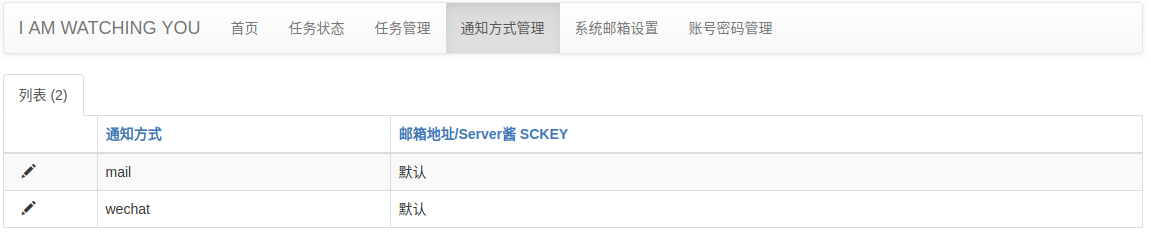
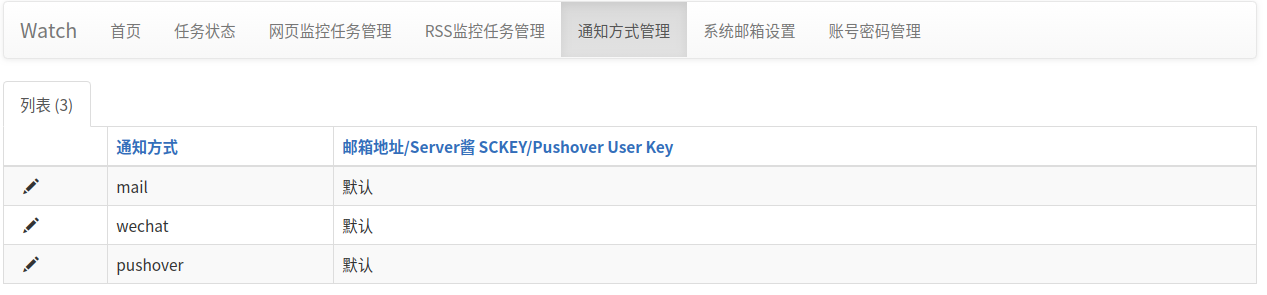
add doc && yapf format

diff --git a/app/main/notification/pushover_notification.py b/app/main/notification/pushover_notification.py
@@ -12,30 +12,27 @@ import requests
 from app.main.notification.notification import Notification
 from config import logger
 
+
 class PushoverNotification(Notification):
     def send(self, to, header, content):
         if to == '默认':
             logger.error('没有设置Prushover User Key，无法发送推送通知')
             raise Exception('没有设置Prushover User Key，无法发送推送通知')
-        data = {'text': header, 'desp': content}
         token = os.getenv('PUSHOVER_API_TOKEN')
         sendData = {
             'token': token,  # 监控猫 Api Token
             'user': to,
             'message': '【' + header + '】有更新！\n>>>新内容为：\n' + content,
-            }
+        }
         pushoverApi = 'https://api.pushover.net/1/messages.json'
 
         try:
-            response = requests.post(pushoverApi, sendData, timeout=5) #在session中喜欢微锦囊
-            # if not response.status_code // 100 == 2:
-            # print('请求错误')
-            # return "Error: Unexpected response {}".format(response)
+            response = requests.post(pushoverApi, sendData, timeout=5)
         except requests.exceptions.RequestException as e:
             logger.error('请求错误')
             raise Exception('Error: {}'.format(e))
 
         res = json.loads(response.text)
-        
+
         if res['status'] != 1:
             raise Exception(res['errors'])

diff --git a/app/main/selector/request_selector.py b/app/main/selector/request_selector.py
@@ -32,15 +32,6 @@ class RequestsSelector(FatherSelector):
         r.encoding = r.apparent_encoding
         html = r.text
         return html
-    
-    # 判断json #############################
-    def isJson(self, input_str):
-        try:
-            json.loads(input_str)
-            return True
-        except:
-            raise Exception('返回数据不是Json')
-    # 判断json #############################
 
     def get_by_xpath(self, url, xpath, headers=None):
         html = self.get_html(url, headers)
@@ -62,18 +53,15 @@ class RequestsSelector(FatherSelector):
 
     def get_by_json(self, url, xpath, headers=None):
         html = self.get_html(url, headers)
-        
-        if self.isJson(html):
-            resJson = json.loads(html) #把返回数据转成JSON
-        else :
-            raise Exception('Json转换错误')
-        
-        res = jsonpath.jsonpath(resJson,xpath)
-        
-        resStr = json.dumps(res) # 将json转为str
 
-        if len(resStr) != 0:
-            # return res[0]
-            return resStr
+        try:
+            resJson = json.loads(html)
+        except Exception:
+            raise Exception('Json转换错误')
+        res = jsonpath.jsonpath(resJson, xpath)
+
+        if res:
+            if len(res) != 0:
+                return res[0]
         else:
             raise Exception('无法获取文本信息')

diff --git a/app/main/views.py b/app/main/views.py
@@ -53,18 +53,20 @@ def test():
 
             if is_chrome == 'yes':
                 show = True
-            content = get_content(
-                url,
-                is_chrome,
-                selector_type,
-                selector,
-                regular_expression,
-                headers,
-                debug=True)
+            content = get_content(url,
+                                  is_chrome,
+                                  selector_type,
+                                  selector,
+                                  regular_expression,
+                                  headers,
+                                  debug=True)
         except ValidationError:
             pass
         except Exception as e:
             error = repr(e)
 
-    return render_template(
-        'test.html', error=error, form=form, content=content, show=show)
+    return render_template('test.html',
+                           error=error,
+                           form=form,
+                           content=content,
+                           show=show)

diff --git a/app/main/forms/test_from.py b/app/main/forms/test_from.py
@@ -14,11 +14,13 @@ def check_url(form, field):
 
 class TestForm(FlaskForm):
     url = StringField('监控网址', validators=[DataRequired("请输入网址!"), check_url])
-    selector_type = SelectField(
-        '元素选择器类型', choices=[('xpath', 'xpath'), ('css', 'css selector'), ('json', 'Jsonpath')])
+    selector_type = SelectField('元素选择器类型',
+                                choices=[('xpath', 'xpath'),
+                                         ('css', 'css selector'),
+                                         ('json', 'Jsonpath')])
     selector = StringField('元素选择器', validators=[DataRequired("请输入元素选择器!")])
-    is_chrome = SelectField(
-        '是否使用无头浏览器', choices=[('no', 'no'), ('yes', 'yes')])
+    is_chrome = SelectField('是否使用无头浏览器',
+                            choices=[('no', 'no'), ('yes', 'yes')])
     regular_expression = StringField('正则表达式')
     headers = StringField('自定义请求头')
     submit = SubmitField('提取信息')

diff --git a/app/model_views/task_view.py b/app/model_views/task_view.py
@@ -88,7 +88,8 @@ class TaskView(ModelView):
     }
 
     column_list = [
-        'id', 'name', 'url', 'frequency', 'create_time', 'mail', 'wechat' , 'pushover'
+        'id', 'name', 'url', 'frequency', 'create_time', 'mail', 'wechat',
+        'pushover'
     ]
 
     form_args = {
@@ -107,7 +108,8 @@ class TaskView(ModelView):
     }
 
     form_choices = {
-        'selector_type': [('xpath', 'xpath'), ('css', 'css selector'), ('json', 'Jsonpath')],
+        'selector_type': [('xpath', 'xpath'), ('css', 'css selector'),
+                          ('json', 'Jsonpath')],
         'is_chrome': [('no', 'no'), ('yes', 'yes')],
         'mail': [('no', 'no'), ('yes', 'yes')],
         'wechat': [('no', 'no'), ('yes', 'yes')],

diff --git a/app/models/mail_setting.py b/app/models/mail_setting.py
@@ -13,6 +13,7 @@ class MailSetting(db.Model):
     mail_server = db.Column(db.String(32), nullable=False, default='localhost')
     mail_port = db.Column(db.Integer, nullable=False, default=25)
     mail_username = db.Column(db.String(64), nullable=False, default='默认用户名')
-    mail_sender = db.Column(
-        db.String(64), nullable=False, default='默认用户名@mail.com')
+    mail_sender = db.Column(db.String(64),
+                            nullable=False,
+                            default='默认用户名@mail.com')
     mail_password = db.Column(db.String(64), nullable=False, default='默认密码')

diff --git a/app/main/scheduler.py b/app/main/scheduler.py
@@ -73,12 +73,12 @@ def send_message(content, header, mail, wechat, pushover):
         fail += 1
         exception_content += 'Wechat Exception: {};'.format(repr(e))
 
-
     try:
         if pushover == 'yes':
             total += 1
             handler = new_handler('pushover')
-            pushover_info = Notification.query.filter_by(type='pushover').first()
+            pushover_info = Notification.query.filter_by(
+                type='pushover').first()
             key = pushover_info.number
             handler.send(key, header, content)
     except Exception as e:

diff --git a/app/models/rss_task.py b/app/models/rss_task.py
@@ -33,8 +33,9 @@ def after_insert_listener(mapper, connection, target):
 
     from app.models.task_status import TaskStatus
     task_status = TaskStatus.__table__
-    connection.execute(task_status.insert().values(
-        task_id=target.id, task_name=target.name, task_type='rss'))
+    connection.execute(task_status.insert().values(task_id=target.id,
+                                                   task_name=target.name,
+                                                   task_type='rss'))
 
 
 def after_update_listener(mapper, connection, target):

diff --git a/app/models/task.py b/app/models/task.py
@@ -40,8 +40,8 @@ def after_insert_listener(mapper, connection, target):
 
     from app.models.task_status import TaskStatus
     task_status = TaskStatus.__table__
-    connection.execute(task_status.insert().values(
-        task_id=target.id, task_name=target.name))
+    connection.execute(task_status.insert().values(task_id=target.id,
+                                                   task_name=target.name))
 
 
 def after_update_listener(mapper, connection, target):

diff --git a/app/model_views/notification_view.py b/app/model_views/notification_view.py
@@ -20,6 +20,9 @@ class NotificationView(ModelView):
     can_create = False
     can_delete = False
 
-    column_labels = {'type': '通知方式', 'number': '邮箱地址/Server酱 SCKEY/Pushover User Key'}
+    column_labels = {
+        'type': '通知方式',
+        'number': '邮箱地址/Server酱 SCKEY/Pushover User Key'
+    }
 
     form_widget_args = {'type': {'readonly': True}}

diff --git a/app/__init__.py b/app/__init__.py
@@ -27,8 +27,7 @@ db = SQLAlchemy()
 login = LoginManager()
 siteName = os.getenv('NAME')
 admin = Admin(name=siteName, template_mode='bootstrap3')
-# scheduler = APScheduler()
-scheduler = APScheduler(BackgroundScheduler(timezone="Asia/Shanghai")) #修复时区问题
+scheduler = APScheduler(BackgroundScheduler(timezone="Asia/Shanghai"))
 app = Flask(__name__)
 bootstrap = Bootstrap()
 

diff --git a/app/model_views/rss_task_view.py b/app/model_views/rss_task_view.py
@@ -48,7 +48,8 @@ class RSSTaskView(ModelView):
     }
 
     column_list = [
-        'id', 'name', 'url', 'frequency', 'create_time', 'mail', 'wechat', 'pushover'
+        'id', 'name', 'url', 'frequency', 'create_time', 'mail', 'wechat',
+        'pushover'
     ]
 
     form_args = {
